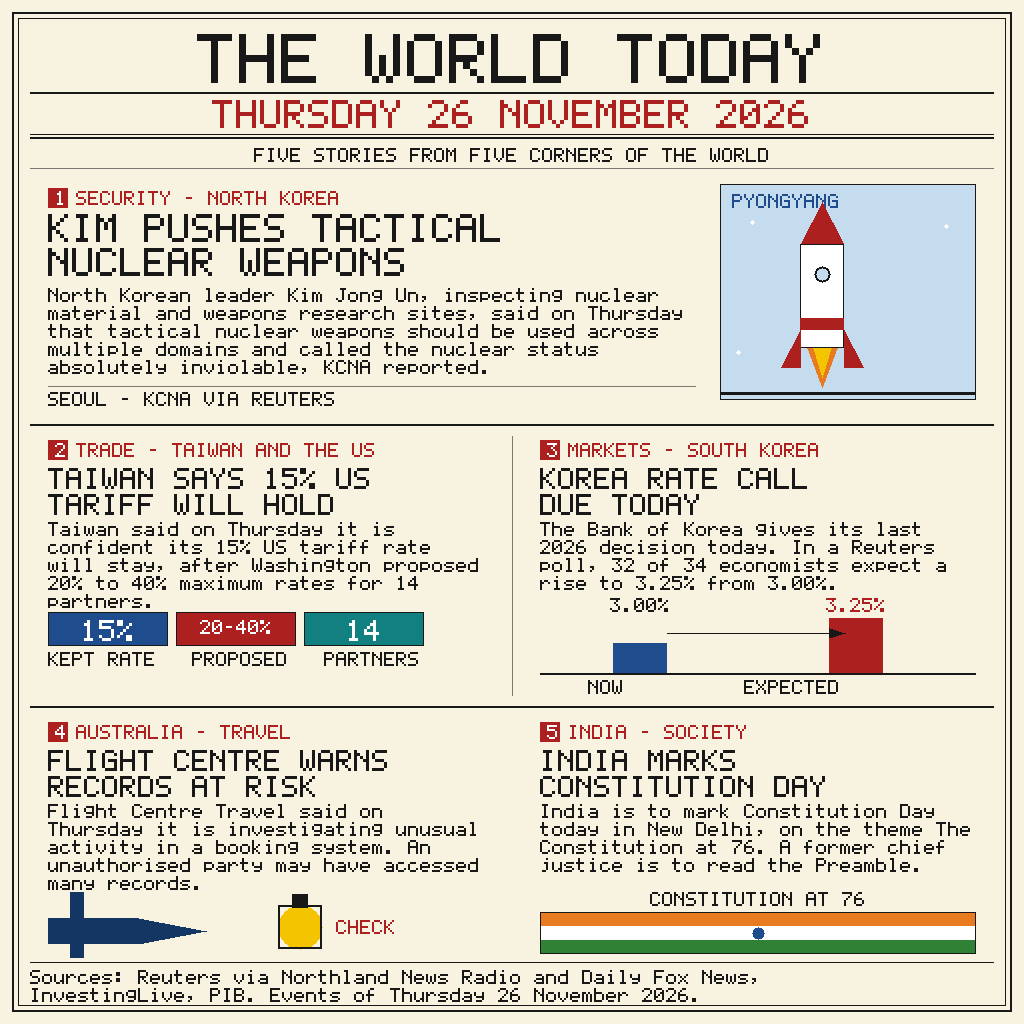
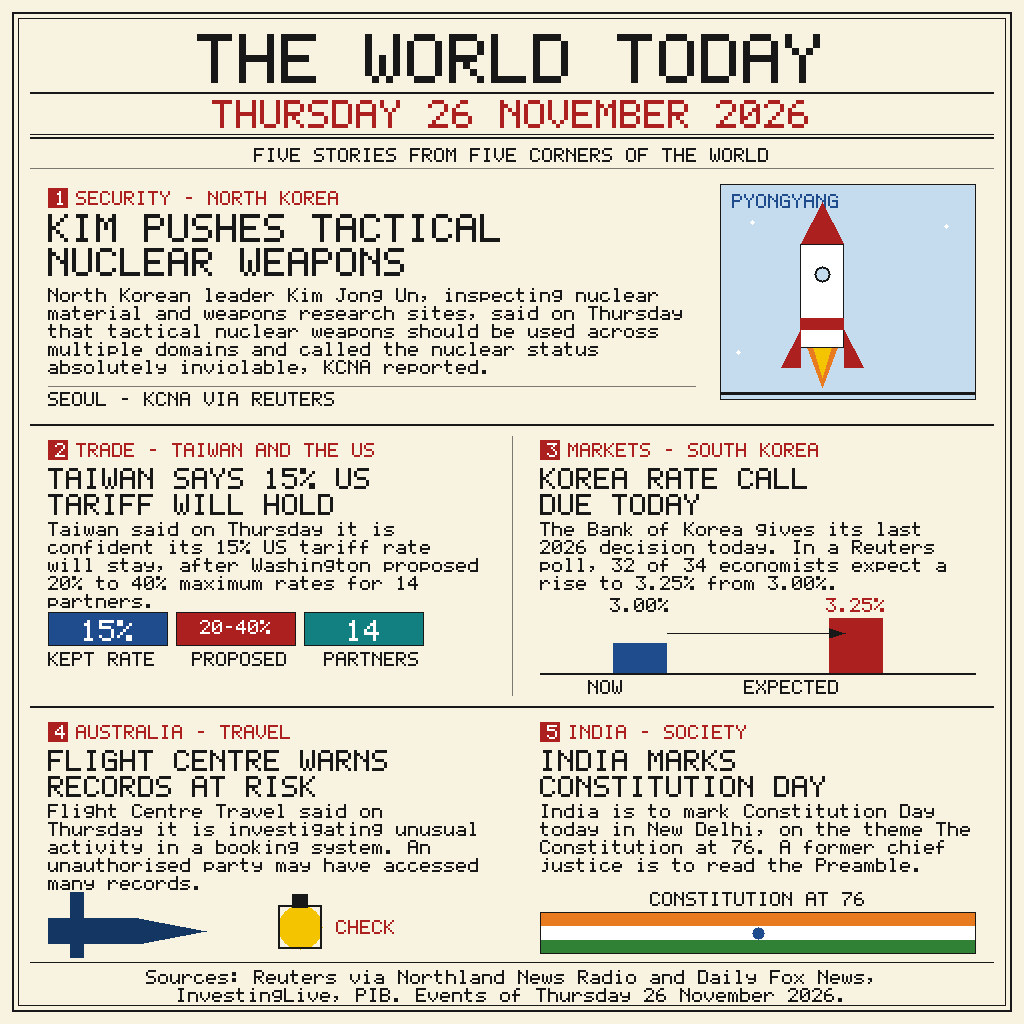
Centre the source lines on the front page

Changed region(s): [[0.0312, 0.9375, 0.75, 1.0], [0.75, 0.9375, 0.8438, 1.0]]

diff --git a/main.py b/main.py
@@ -362,8 +362,12 @@ write_mid("CONSTITUTION AT 76", 758, 892, 2, BLACK)
 
 # Colophon with sources.
 rule_h(30, 962, 964, BLACK, 1)
-write_line("Sources: Reuters via Northland News Radio and Daily Fox News,", 30, 970, 2, BLACK)
-write_line("InvestingLive, PIB. Events of Thursday 26 November 2026.", 30, 988, 2, BLACK)
+colophon_lines = (
+    "Sources: Reuters via Northland News Radio and Daily Fox News,",
+    "InvestingLive, PIB. Events of Thursday 26 November 2026.",
+)
+for row, text in enumerate(colophon_lines):
+    write_mid(text, SIDE // 2, 970 + row * 18, 2, BLACK)
 
 
 def chunk(kind, payload):
